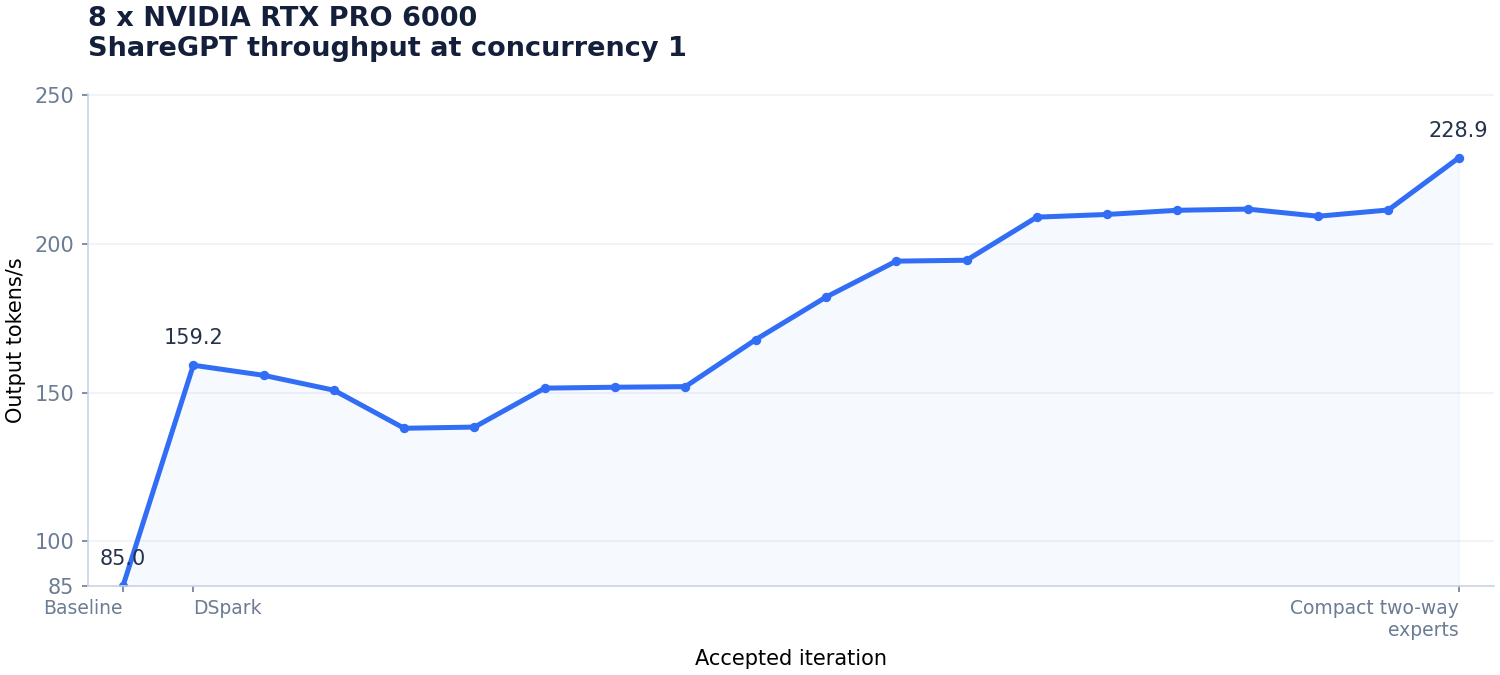
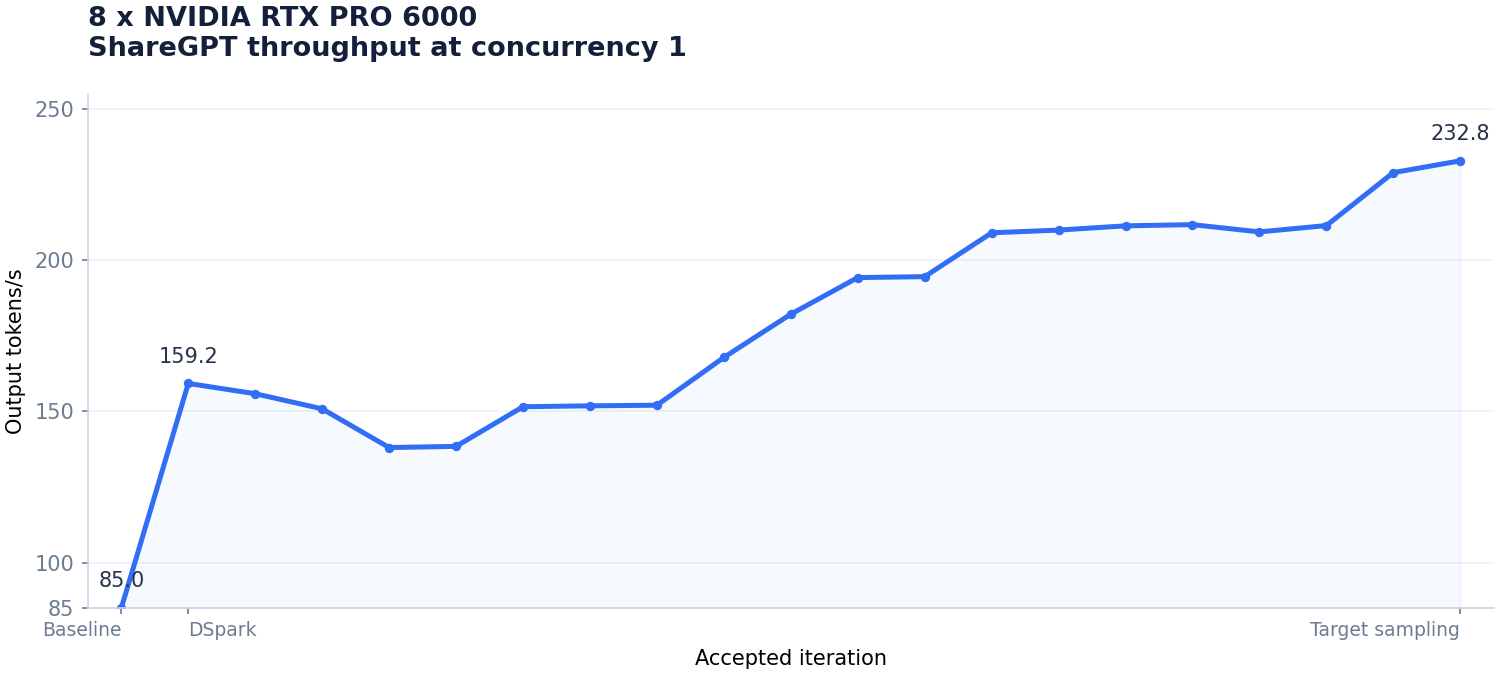
Enable vocabulary-parallel target sampling

diff --git a/8-nvidia-rtx-pro-6000/CHANGELOG.md b/8-nvidia-rtx-pro-6000/CHANGELOG.md
@@ -4,13 +4,10 @@ The patch is cumulative against `vllm/vllm-openai:v0.32.0`; every working milest
 
 FlashInfer 0.7.1 replaces the bundled 0.7.0.post1 for runtime page-size support, and both the sm120 compatibility patch and `--block-size 64` are required.
 
-## 20. Compact two-way experts
+## 21. Target vocabulary-parallel sampling
 
-- Split each expert across two GPUs and four expert groups without padding to reduce small-batch expert work.
-- Pass route counts and scale strides at runtime to avoid compiling kernels for each request length.
-- Reduce the prefill budget to 4,096 tokens to limit prefill stalls while retaining the full 1,048,576-token context.
-- Raise GPU memory utilization to 96.5% to preserve KV-cache capacity with the new expert layout.
--    --enable-expert-parallel
+- Exchange each vocabulary shard's maximum score and token ID instead of full target logits to reduce communication for eligible greedy requests.
+- Fuse rank reduction, draft verification, and token counts while retaining native sampling for stochastic requests, penalties, logprobs, structured output, and other unsupported modes.
 
 Requirements, on a fresh vLLM image:
 
@@ -45,6 +42,7 @@ nvcc -O3 -std=c++17 -shared -Xcompiler=-fPIC --cudart shared \
     -o /usr/local/lib/libvllm-sm120-host-ll.so
 export NCCL_TUNER_PLUGIN=/usr/local/lib/libvllm-sm120-tuner.so
 export VLLM_SM120_EXPERT_TP=2
+export VLLM_SM120_TARGET_GREEDY=1
 ```
 
 Then, run server as:
@@ -67,14 +65,14 @@ vllm serve deepseek-ai/DeepSeek-V4.1-Flash-1017 \
 
 | Concurrency | Prompts | Output t/s | p95 TTFT (ms) | p95 TPOT (ms) |
 |---:|---:|---:|---:|---:|
-| 1 | 128 | 228.9 | 131.3 | 5.22 |
-| 4 | 128 | 544.2 | 87.8 | 8.43 |
-| 8 | 128 | 786.3 | 212.0 | 12.20 |
-| 16 | 128 | 1069.8 | 281.7 | 17.54 |
-| 32 | 128 | 1428.1 | 385.2 | 24.90 |
-| 64 | 128 | 1812.7 | 826.7 | 49.51 |
-| 128 | 256 | 2379.8 | 1592.0 | 73.78 |
-| 256 | 512 | 3113.4 | 3045.9 | 122.08 |
+| 1 | 128 | 232.8 | 131.8 | 5.17 |
+| 4 | 128 | 557.7 | 93.2 | 8.76 |
+| 8 | 128 | 787.1 | 205.4 | 11.55 |
+| 16 | 128 | 1084.7 | 281.8 | 17.55 |
+| 32 | 128 | 1442.4 | 369.7 | 24.77 |
+| 64 | 128 | 1872.9 | 835.6 | 38.33 |
+| 128 | 256 | 2390.4 | 1651.4 | 78.07 |
+| 256 | 512 | 3237.5 | 3052.7 | 119.85 |
 
 ## Accepted progress
 
@@ -99,4 +97,5 @@ vllm serve deepseek-ai/DeepSeek-V4.1-Flash-1017 \
 | 17 | Medium grouped experts | 211.7 | [`ba418b9`](https://github.com/alvarobartt/DeepSeek-V4.1-Flash-RTX-PRO-6000/tree/ba418b932c779f5224cc2657e52a769112cf0917) |
 | 18 | Cold-start guards | 209.3 | [`62b3bf7`](https://github.com/alvarobartt/DeepSeek-V4.1-Flash-RTX-PRO-6000/tree/62b3bf717ce8447cd20c62b06a2bfbe781b6836d) |
 | 19 | Counter-safe collectives | 211.4 | [`b4be2dd`](https://github.com/alvarobartt/DeepSeek-V4.1-Flash-RTX-PRO-6000/tree/b4be2ddcfaf547f6f042d91aac6a104dfabae3a2) |
-| 20 | Compact two-way experts | 228.9 | This revision |
+| 20 | Compact two-way experts | 228.9 | [`cf53cb6`](https://github.com/alvarobartt/DeepSeek-V4.1-Flash-RTX-PRO-6000/tree/cf53cb67cf3f69c26acbbe9afd07ec428d766c60) |
+| 21 | Target vocabulary-parallel sampling | 232.8 | This revision |

diff --git a/README.md b/README.md
@@ -15,14 +15,14 @@ Validated serving recipes for four and eight GPUs, using the checkpoint's origin
 
 | Concurrency | Baseline t/s [^8gpu-baseline] | Baseline + DSpark t/s | Current t/s |
 |---:|---:|---:|---:|
-| 1 | 85.0 | 159.2 (+87.3%) | **228.9 (+43.8%)** |
-| 4 | 253.2 | 380.4 (+50.2%) | **544.2 (+43.1%)** |
-| 8 | 375.4 | 496.2 (+32.2%) | **786.3 (+58.5%)** |
-| 16 | 553.1 | 650.5 (+17.6%) | **1069.8 (+64.5%)** |
-| 32 | 657.4 | 954.1 (+45.1%) | **1428.1 (+49.7%)** |
-| 64 | 866.2 | 1185.0 (+36.8%) | **1812.7 (+53.0%)** |
-| 128 | 1242.4 | 1471.9 (+18.5%) | **2379.8 (+61.7%)** |
-| 256 | 1814.1 | 1726.3 (-4.8%) | **3113.4 (+80.4%)** |
+| 1 | 85.0 | 159.2 (+87.3%) | **232.8 (+46.2%)** |
+| 4 | 253.2 | 380.4 (+50.2%) | **557.7 (+46.6%)** |
+| 8 | 375.4 | 496.2 (+32.2%) | **787.1 (+58.6%)** |
+| 16 | 553.1 | 650.5 (+17.6%) | **1084.7 (+66.7%)** |
+| 32 | 657.4 | 954.1 (+45.1%) | **1442.4 (+51.2%)** |
+| 64 | 866.2 | 1185.0 (+36.8%) | **1872.9 (+58.1%)** |
+| 128 | 1242.4 | 1471.9 (+18.5%) | **2390.4 (+62.4%)** |
+| 256 | 1814.1 | 1726.3 (-4.8%) | **3237.5 (+87.5%)** |
 
 ![Accepted ShareGPT c1 throughput](8-nvidia-rtx-pro-6000/throughput.png)
 
